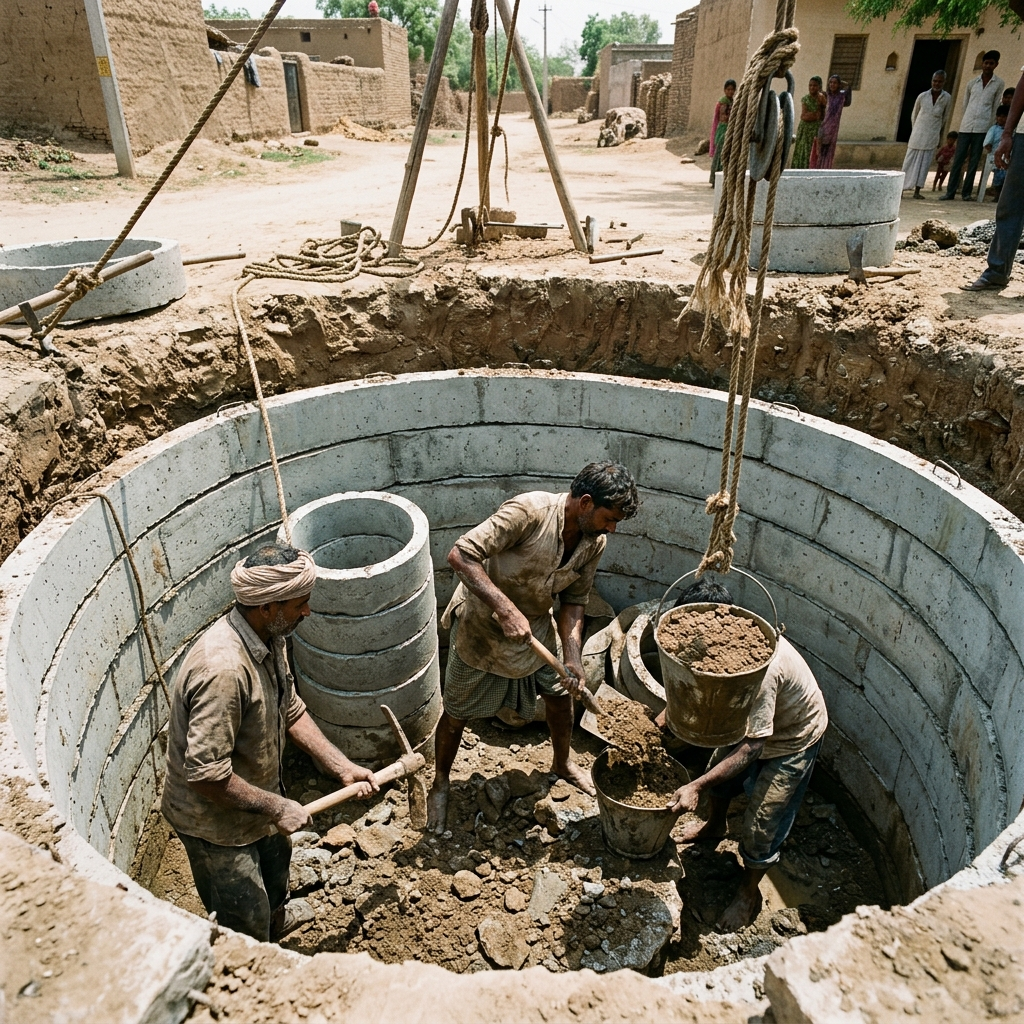
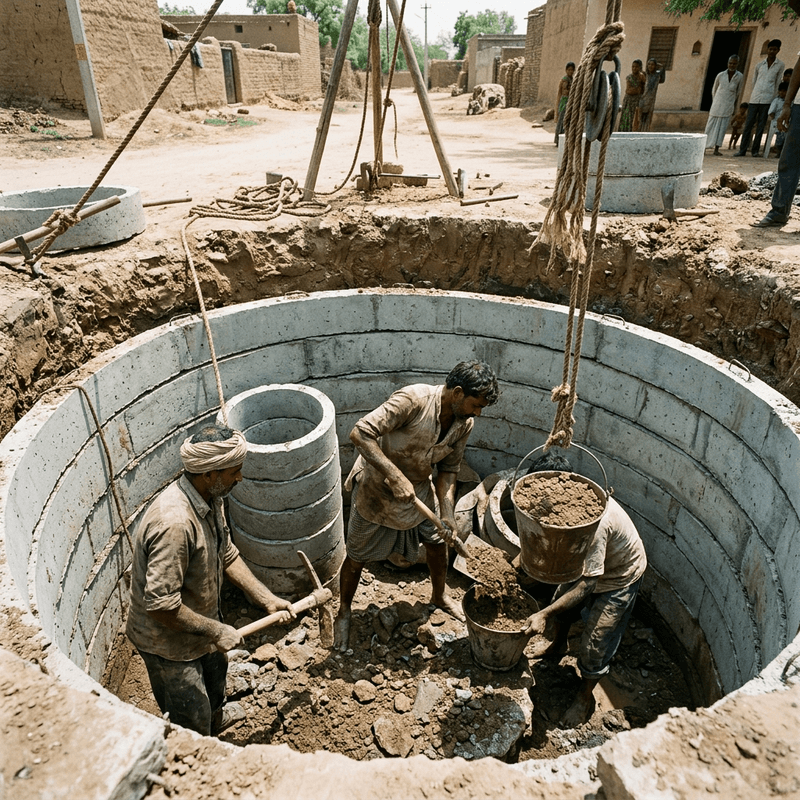
Perf: Recompress all PNG/JPG images in place and enforce WebP conversion in script.js

diff --git a/script.js b/script.js
@@ -476,9 +476,11 @@ async function loadDynamicContent() {
         .replace(/'/g, "\\'")
         .replace(/"/g, "&quot;");
 
+      const itemImgUrl = (item.img_url || "logo.webp").replace(/\.(png|jpg|jpeg)$/i, '.webp');
+
       card.innerHTML = `
         <div class="material-img-wrapper">
-          <img src="${item.img_url || "logo.png"}" alt="${item.title}" class="card-image" width="400" height="300" loading="lazy">
+          <img src="${itemImgUrl}" alt="${item.title}" class="card-image" width="400" height="300" loading="lazy">
           <span class="material-tag">${item.tag || item.meta}</span>
         </div>
         <div class="material-details">
@@ -501,7 +503,7 @@ async function loadDynamicContent() {
               <button type="button" class="qty-btn" onclick="adjustCardQty('${itemId}', 1)" aria-label="Increase quantity for ${escapedTitle}">+</button>
               <span class="qty-unit">pcs</span>
             </div>
-            <button type="button" class="btn btn-sm btn-primary add-to-cart-btn" aria-label="Add ${escapedTitle} to cart" onclick="addMaterialToCart('${itemId}', '${escapedTitle}', ${itemPrice}, '${item.img_url || "logo.png"}', '${escapedMeta}')">
+            <button type="button" class="btn btn-sm btn-primary add-to-cart-btn" aria-label="Add ${escapedTitle} to cart" onclick="addMaterialToCart('${itemId}', '${escapedTitle}', ${itemPrice}, '${itemImgUrl}', '${escapedMeta}')">
               <i class="fas fa-cart-plus"></i> Add to Cart
             </button>
           </div>
@@ -516,9 +518,10 @@ async function loadDynamicContent() {
     projects.forEach((item) => {
       const card = document.createElement("div");
       card.className = "glass-card project-card";
+      const itemImgUrl = (item.img_url || "logo.webp").replace(/\.(png|jpg|jpeg)$/i, '.webp');
       card.innerHTML = `
         <div class="material-img-wrapper">
-          <img src="${item.img_url || "logo.png"}" alt="${item.title}" class="card-image" width="400" height="300" loading="lazy">
+          <img src="${itemImgUrl}" alt="${item.title}" class="card-image" width="400" height="300" loading="lazy">
         </div>
         <div class="project-info" style="padding: 20px 15px;">
           <span class="project-location"><i class="fas fa-map-marker-alt"></i> ${item.meta}</span>
@@ -535,9 +538,10 @@ async function loadDynamicContent() {
     services.forEach((item) => {
       const card = document.createElement("div");
       card.className = "glass-card service-card";
+      const itemImgUrl = (item.img_url || "logo.webp").replace(/\.(png|jpg|jpeg)$/i, '.webp');
       card.innerHTML = `
         <div class="material-img-wrapper">
-          <img src="${item.img_url || "logo.png"}" alt="${item.title}" class="card-image" width="400" height="300" loading="lazy">
+          <img src="${itemImgUrl}" alt="${item.title}" class="card-image" width="400" height="300" loading="lazy">
         </div>
         <div style="padding: 20px 15px;">
           <h3>${item.title}</h3>

diff --git a/index.html b/index.html
@@ -168,7 +168,7 @@
   <header class="header">
     <div class="container nav-container">
       <a href="#home" class="logo-area">
-        <img src="logo.png" alt="Murugesan Well Rings Logo" class="site-logo" width="48" height="48" fetchpriority="high">
+        <img src="logo.webp" alt="Murugesan Well Rings Logo" class="site-logo" width="48" height="48" fetchpriority="high">
         <span class="logo-text">Murugesan<span class="highlight">WellRings</span></span>
       </a>
 
@@ -804,7 +804,7 @@
   <!-- Toast Notification -->
   <div id="toastNotification" class="toast-notification"></div>
 
-  <script defer src="script.js?v=12"></script>
+  <script defer src="script.js?v=13"></script>
 </body>
 
 </html>
